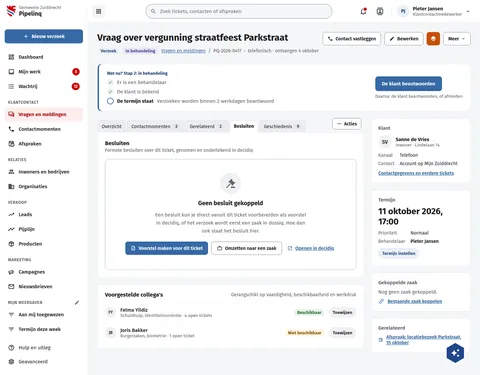
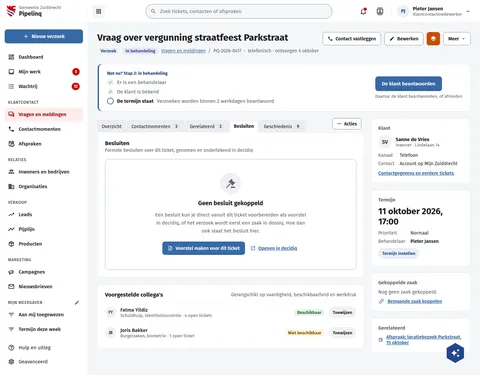
fix(screens): PqTicketBesluitvorming's decisions card has no convert action
Converting a request into a case stays in the request's own actions; the
decisions card keeps convert off (Ruben, 28 Oct 23:45).

Assisted-by: ClaudeCode:claude-opus-5-5

Changed region(s): [[0.25, 0.6453, 0.7188, 0.704]]

diff --git a/preview/screens/boards/PqTicketBesluitvorming.html b/preview/screens/boards/PqTicketBesluitvorming.html
@@ -240,7 +240,7 @@ a{color:var(--sc-primary, #3669a5)}a:hover{color:var(--sc-primary-deep, #234a78)
                 <span style="width: 64px; height: 64px; border-radius: 32px; background: var(--sc-work-chip, #f0f1f3); color: var(--sc-work-muted, #5e6168); display: flex; align-items: center; justify-content: center"><svg width="32" height="32" viewbox="0 0 24 24" fill="currentColor"><path d="M2.3,20.28L11.9,10.68L10.5,9.26L9.78,9.97C9.39,10.36 8.76,10.36 8.37,9.97L7.66,9.26C7.27,8.87 7.27,8.24 7.66,7.85L13.32,2.19C13.71,1.8 14.34,1.8 14.73,2.19L15.44,2.9C15.83,3.29 15.83,3.92 15.44,4.31L14.73,5L16.15,6.43C16.54,6.04 17.17,6.04 17.56,6.43C17.95,6.82 17.95,7.46 17.56,7.85L18.97,9.26L19.68,8.55C20.07,8.16 20.71,8.16 21.1,8.55L21.8,9.26C22.19,9.65 22.19,10.29 21.8,10.68L16.15,16.33C15.76,16.72 15.12,16.72 14.73,16.33L14.03,15.63C13.63,15.24 13.63,14.6 14.03,14.21L14.73,13.5L13.32,12.09L3.71,21.7C3.32,22.09 2.69,22.09 2.3,21.7C1.91,21.31 1.91,20.67 2.3,20.28M20,19A2,2 0 0,1 22,21V22H12V21A2,2 0 0,1 14,19H20Z"></path></svg></span>
                 <h3 style="margin: 4px 0 0; font-size: 18px; font-weight: 700">Geen besluit gekoppeld</h3>
                 <p style="margin: 0; max-width: 460px; font-size: 15px; line-height: 1.6; color: var(--sc-work-muted, #5e6168)">Een besluit kun je direct vanuit dit ticket voorbereiden als voorstel in decidiq, of het verzoek wordt eerst een zaak in dossiq. Hoe dan ook staat het besluit hier.</p>
-                <div style="margin-top: 8px; display: flex; flex-wrap: wrap; gap: 10px; justify-content: center"><button type="button" style="height: 40px; padding: 0 16px; border: 0; border-radius: 8px; background: var(--sc-primary, #3669a5); color: #ffffff; font: 600 14px var(--sc-font, 'Fira Sans'), sans-serif; display: flex; align-items: center; gap: 8px"><svg width="16" height="16" viewbox="0 0 24 24" fill="currentColor"><path d="M8,12H16V14H8V12M10,20H6V4H13V9H18V12.1L20,10.1V8L14,2H6A2,2 0 0,0 4,4V20A2,2 0 0,0 6,22H10V20M8,18H12.1L13,17.1V16H8V18M20.2,13C20.3,13 20.5,13.1 20.6,13.2L21.9,14.5C22.1,14.7 22.1,15.1 21.9,15.3L20.9,16.3L18.8,14.2L19.8,13.2C19.9,13.1 20,13 20.2,13M20.2,16.9L14.1,23H12V20.9L18.1,14.8L20.2,16.9Z"></path></svg>Voorstel maken voor dit ticket</button><button type="button" style="height: 40px; padding: 0 16px; border: 1px solid var(--sc-work-field, #828a95); border-radius: 8px; background: #ffffff; font: 600 14px var(--sc-font, 'Fira Sans'), sans-serif; color: var(--sc-work-ink, #1b1c1d); display: flex; align-items: center; gap: 8px"><svg width="16" height="16" viewbox="0 0 24 24" fill="currentColor"><path d="M20,6C20.58,6 21.05,6.2 21.42,6.59C21.8,7 22,7.45 22,8V19C22,19.55 21.8,20 21.42,20.41C21.05,20.8 20.58,21 20,21H4C3.42,21 2.95,20.8 2.58,20.41C2.2,20 2,19.55 2,19V8C2,7.45 2.2,7 2.58,6.59C2.95,6.2 3.42,6 4,6H8V4C8,3.42 8.2,2.95 8.58,2.58C8.95,2.2 9.42,2 10,2H14C14.58,2 15.05,2.2 15.42,2.58C15.8,2.95 16,3.42 16,4V6H20M4,8V19H20V8H4M14,6V4H10V6H14Z"></path></svg>Omzetten naar een zaak</button><a href="#" style="display: inline-flex; align-items: center; gap: 8px; height: 40px; padding: 0 6px; font-size: 14px; font-weight: 600"><svg width="16" height="16" viewbox="0 0 24 24" fill="currentColor"><path d="M14,3V5H17.59L7.76,14.83L9.17,16.24L19,6.41V10H21V3M19,19H5V5H12V3H5C3.89,3 3,3.9 3,5V19A2,2 0 0,0 5,21H19A2,2 0 0,0 21,19V12H19V19Z"></path></svg>Openen in decidiq</a></div>
+                <div style="margin-top: 8px; display: flex; flex-wrap: wrap; gap: 10px; justify-content: center"><button type="button" style="height: 40px; padding: 0 16px; border: 0; border-radius: 8px; background: var(--sc-primary, #3669a5); color: #ffffff; font: 600 14px var(--sc-font, 'Fira Sans'), sans-serif; display: flex; align-items: center; gap: 8px"><svg width="16" height="16" viewbox="0 0 24 24" fill="currentColor"><path d="M8,12H16V14H8V12M10,20H6V4H13V9H18V12.1L20,10.1V8L14,2H6A2,2 0 0,0 4,4V20A2,2 0 0,0 6,22H10V20M8,18H12.1L13,17.1V16H8V18M20.2,13C20.3,13 20.5,13.1 20.6,13.2L21.9,14.5C22.1,14.7 22.1,15.1 21.9,15.3L20.9,16.3L18.8,14.2L19.8,13.2C19.9,13.1 20,13 20.2,13M20.2,16.9L14.1,23H12V20.9L18.1,14.8L20.2,16.9Z"></path></svg>Voorstel maken voor dit ticket</button><a href="#" style="display: inline-flex; align-items: center; gap: 8px; height: 40px; padding: 0 6px; font-size: 14px; font-weight: 600"><svg width="16" height="16" viewbox="0 0 24 24" fill="currentColor"><path d="M14,3V5H17.59L7.76,14.83L9.17,16.24L19,6.41V10H21V3M19,19H5V5H12V3H5C3.89,3 3,3.9 3,5V19A2,2 0 0,0 5,21H19A2,2 0 0,0 21,19V12H19V19Z"></path></svg>Openen in decidiq</a></div>
               </div>
             </div>
 

diff --git a/screens-src/zuiddrecht/PqTicketBesluitvorming.dc.html b/screens-src/zuiddrecht/PqTicketBesluitvorming.dc.html
@@ -73,7 +73,7 @@ a{color:#3669a5}a:hover{color:#234a78}
                 <span style="width: 64px; height: 64px; border-radius: 32px; background: #f0f1f3; color: #5e6168; display: flex; align-items: center; justify-content: center"><svg width="32" height="32" viewBox="0 0 24 24" fill="currentColor"><path d="M2.3,20.28L11.9,10.68L10.5,9.26L9.78,9.97C9.39,10.36 8.76,10.36 8.37,9.97L7.66,9.26C7.27,8.87 7.27,8.24 7.66,7.85L13.32,2.19C13.71,1.8 14.34,1.8 14.73,2.19L15.44,2.9C15.83,3.29 15.83,3.92 15.44,4.31L14.73,5L16.15,6.43C16.54,6.04 17.17,6.04 17.56,6.43C17.95,6.82 17.95,7.46 17.56,7.85L18.97,9.26L19.68,8.55C20.07,8.16 20.71,8.16 21.1,8.55L21.8,9.26C22.19,9.65 22.19,10.29 21.8,10.68L16.15,16.33C15.76,16.72 15.12,16.72 14.73,16.33L14.03,15.63C13.63,15.24 13.63,14.6 14.03,14.21L14.73,13.5L13.32,12.09L3.71,21.7C3.32,22.09 2.69,22.09 2.3,21.7C1.91,21.31 1.91,20.67 2.3,20.28M20,19A2,2 0 0,1 22,21V22H12V21A2,2 0 0,1 14,19H20Z"></path></svg></span>
                 <h3 style="margin: 4px 0 0; font-size: 18px; font-weight: 700">Geen besluit gekoppeld</h3>
                 <p style="margin: 0; max-width: 460px; font-size: 15px; line-height: 1.6; color: #5e6168">Een besluit kun je direct vanuit dit ticket voorbereiden als voorstel in decidiq, of het verzoek wordt eerst een zaak in dossiq. Hoe dan ook staat het besluit hier.</p>
-                <div style="margin-top: 8px; display: flex; flex-wrap: wrap; gap: 10px; justify-content: center"><button type="button" style="height: 40px; padding: 0 16px; border: 0; border-radius: 8px; background: #3669a5; color: #ffffff; font: 600 14px 'Fira Sans', sans-serif; display: flex; align-items: center; gap: 8px"><svg width="16" height="16" viewBox="0 0 24 24" fill="currentColor"><path d="M8,12H16V14H8V12M10,20H6V4H13V9H18V12.1L20,10.1V8L14,2H6A2,2 0 0,0 4,4V20A2,2 0 0,0 6,22H10V20M8,18H12.1L13,17.1V16H8V18M20.2,13C20.3,13 20.5,13.1 20.6,13.2L21.9,14.5C22.1,14.7 22.1,15.1 21.9,15.3L20.9,16.3L18.8,14.2L19.8,13.2C19.9,13.1 20,13 20.2,13M20.2,16.9L14.1,23H12V20.9L18.1,14.8L20.2,16.9Z"></path></svg>Voorstel maken voor dit ticket</button><button type="button" style="height: 40px; padding: 0 16px; border: 1px solid #828a95; border-radius: 8px; background: #ffffff; font: 600 14px 'Fira Sans', sans-serif; color: #1b1c1d; display: flex; align-items: center; gap: 8px"><svg width="16" height="16" viewBox="0 0 24 24" fill="currentColor"><path d="M20,6C20.58,6 21.05,6.2 21.42,6.59C21.8,7 22,7.45 22,8V19C22,19.55 21.8,20 21.42,20.41C21.05,20.8 20.58,21 20,21H4C3.42,21 2.95,20.8 2.58,20.41C2.2,20 2,19.55 2,19V8C2,7.45 2.2,7 2.58,6.59C2.95,6.2 3.42,6 4,6H8V4C8,3.42 8.2,2.95 8.58,2.58C8.95,2.2 9.42,2 10,2H14C14.58,2 15.05,2.2 15.42,2.58C15.8,2.95 16,3.42 16,4V6H20M4,8V19H20V8H4M14,6V4H10V6H14Z"></path></svg>Omzetten naar een zaak</button><a href="#" style="display: inline-flex; align-items: center; gap: 8px; height: 40px; padding: 0 6px; font-size: 14px; font-weight: 600"><svg width="16" height="16" viewBox="0 0 24 24" fill="currentColor"><path d="M14,3V5H17.59L7.76,14.83L9.17,16.24L19,6.41V10H21V3M19,19H5V5H12V3H5C3.89,3 3,3.9 3,5V19A2,2 0 0,0 5,21H19A2,2 0 0,0 21,19V12H19V19Z"></path></svg>Openen in decidiq</a></div>
+                <div style="margin-top: 8px; display: flex; flex-wrap: wrap; gap: 10px; justify-content: center"><button type="button" style="height: 40px; padding: 0 16px; border: 0; border-radius: 8px; background: #3669a5; color: #ffffff; font: 600 14px 'Fira Sans', sans-serif; display: flex; align-items: center; gap: 8px"><svg width="16" height="16" viewBox="0 0 24 24" fill="currentColor"><path d="M8,12H16V14H8V12M10,20H6V4H13V9H18V12.1L20,10.1V8L14,2H6A2,2 0 0,0 4,4V20A2,2 0 0,0 6,22H10V20M8,18H12.1L13,17.1V16H8V18M20.2,13C20.3,13 20.5,13.1 20.6,13.2L21.9,14.5C22.1,14.7 22.1,15.1 21.9,15.3L20.9,16.3L18.8,14.2L19.8,13.2C19.9,13.1 20,13 20.2,13M20.2,16.9L14.1,23H12V20.9L18.1,14.8L20.2,16.9Z"></path></svg>Voorstel maken voor dit ticket</button><a href="#" style="display: inline-flex; align-items: center; gap: 8px; height: 40px; padding: 0 6px; font-size: 14px; font-weight: 600"><svg width="16" height="16" viewBox="0 0 24 24" fill="currentColor"><path d="M14,3V5H17.59L7.76,14.83L9.17,16.24L19,6.41V10H21V3M19,19H5V5H12V3H5C3.89,3 3,3.9 3,5V19A2,2 0 0,0 5,21H19A2,2 0 0,0 21,19V12H19V19Z"></path></svg>Openen in decidiq</a></div>
               </div>
             </div>
 
